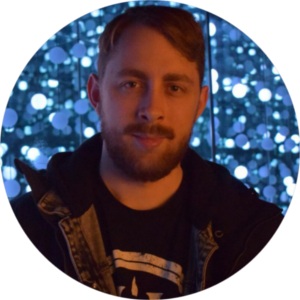
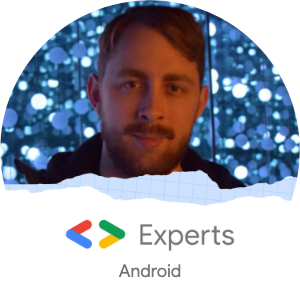
🙌 The GDE update

diff --git a/_includes/sections/about.html b/_includes/sections/about.html
@@ -5,10 +5,11 @@
 <div>
     Hi there! 👋 I'm Ed, an Android developer and programmer originally from Oxfordshire, UK but now based in Nottingham.
 <p>
-    I have been programming since I was 13 years old and have a broad interest in mobile applications, application security and  computer science in general.
+    I have been programming since I was 13 years old and have a broad interest in mobile applications, application security and computer science in general.
 <p>
-    You may have found me at <a href="http://twitter.com/{{ author.twitter }}"><i class="fa fa-fw fa-twitter"></i>{{ author.twitter }}</a> where I regularly update and muse on all things Android. Feel free to come and say 'Hello' 🥰
-
+    You may have found me at <a href="http://twitter.com/{{ author.twitter }}"><i class="fa fa-fw fa-twitter"></i>{{ author.twitter }}</a> or <a href="https://{{ author.mastodon.server }}/@{{ author.mastodon.user }}"><i class="fa-fw fa-brands fa-mastodon"></i>{{ author.mastodon.user }}</a> where I regularly update and muse on all things Android. Feel free to come and say 'Hello' 🥰
+<p>
+    In 2022 I became a Google Developer Expert in Android and have a number of relevant talks and posts available here. However, I am always looking to collaborate. Please feel free to get in contact if that is of intrest.
 <p>
     Outside of Android, you can find me playing Pokémon games, supporting Oxford United and playing with my Pomerianian.
 <p>
@@ -17,7 +18,7 @@
 
 <p>
 
-    I don't tend to reply to recruitment offers, particularly unsolicited ones. However, if you are working on something interested, please do drop me a DM on <a href="http://twitter.com/{{ author.twitter }}"><i class="fa fa-fw fa-twitter"></i>Twitter</a>.
+    I don't tend to reply to recruitment offers, particularly unsolicited ones. However, if you are working on something interested, please do drop me a DM on <a href="https://twitter.com/{{ author.twitter }}"><i class="fa fa-fw fa-twitter"></i>Twitter</a> or <a href="https://{{ author.mastodon.server }}/@{{ author.mastodon.user }}"><i class="fa-fw fa-brands fa-mastodon"></i>Mastodon</a>.
 
 <p>
     For <em>more</em> on my professional skills, please check my <a href="/other/cv/EdGeorgeCv.pdf">CV</a> (which may not be up-to-date){% if author.linkedin %} or my <a href="http://linkedin.com/in/{{ author.linkedin }}" class="social-link-item" target="_blank">LinkedIn</a> which probably is{% endif %}.    
